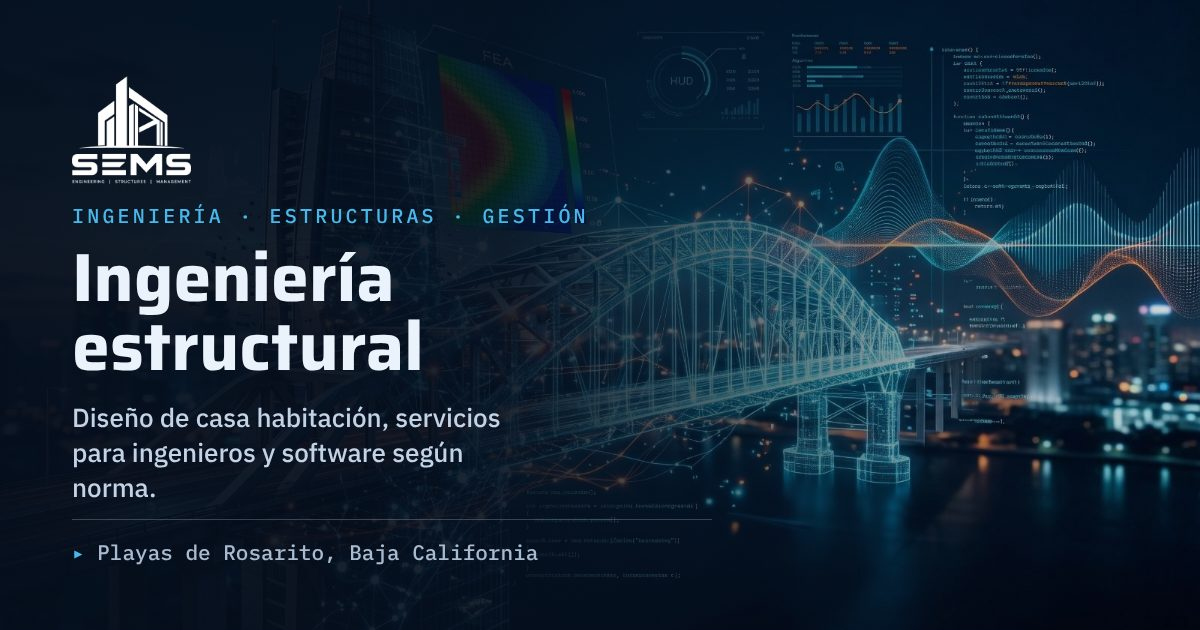
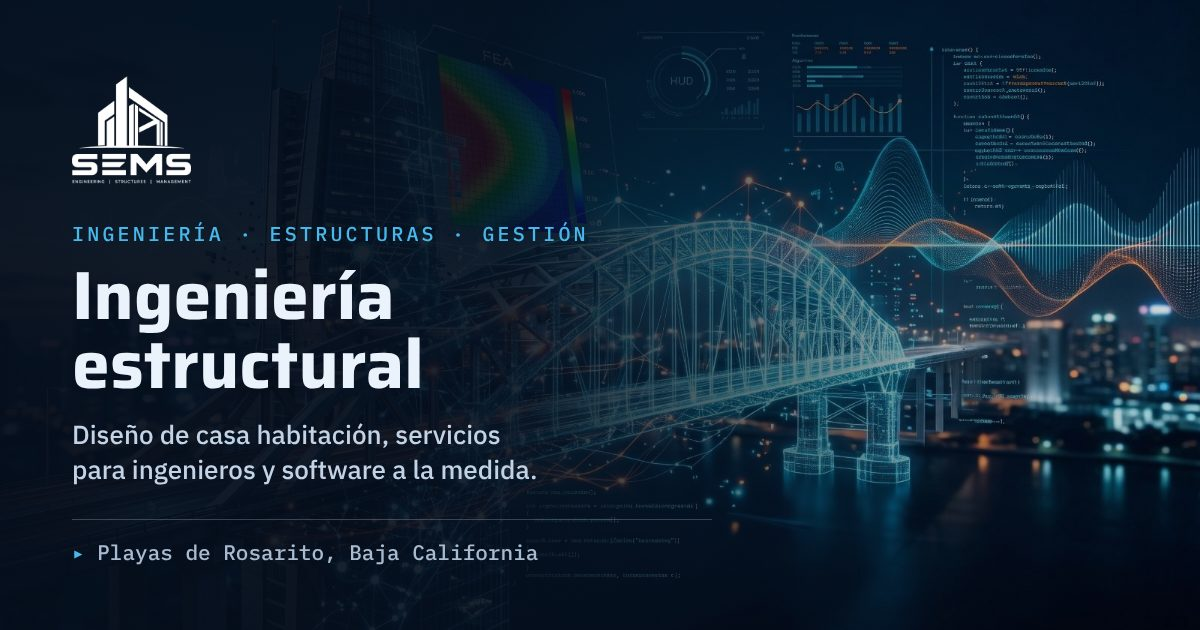
Presentar el software como complementos a la medida
Sección de software reescrita como desarrollo a la medida para ETABS,
Tekla Structures y AutoCAD, franja de programas que más usamos,
formulario y pregunta frecuente ajustados, e imagen para compartir.

Claude-Session: https://claude.ai/code/session_01U9cfAZwVzwVQ1EWmh6u5bm

Changed region(s): [[0.0617, 0.3317, 0.4625, 0.7841], [0.4008, 0.3317, 0.4933, 0.3921]]

diff --git a/index.html b/index.html
@@ -4,7 +4,7 @@
 <meta charset="utf-8">
 <meta name="viewport" content="width=device-width, initial-scale=1, viewport-fit=cover">
 <title>SEMS Ingeniería Estructural</title>
-<meta name="description" content="SEMS: diseño estructural de casa habitación, servicios para ingenieros con automatización por IA y software de diseño conforme a normas vigentes.">
+<meta name="description" content="SEMS: diseño estructural de casa habitación, servicios para ingenieros con automatización por IA y software a la medida para ETABS, Tekla Structures y AutoCAD.">
 <link rel="preconnect" href="https://fonts.googleapis.com">
 <link rel="preconnect" href="https://fonts.gstatic.com" crossorigin>
 <link rel="stylesheet" href="https://fonts.googleapis.com/css2?family=Saira:wght@500;600;700;800&family=IBM+Plex+Sans:wght@400;500;600&family=IBM+Plex+Mono:wght@400;500&display=swap">
@@ -15,14 +15,14 @@
 <meta property="og:locale" content="es_MX">
 <meta property="og:url" content="https://sems-ingenieria.github.io/">
 <meta property="og:title" content="SEMS · Ingeniería estructural">
-<meta property="og:description" content="Diseño estructural de casa habitación, servicios para ingenieros y software de diseño según norma. Playas de Rosarito, Baja California.">
+<meta property="og:description" content="Diseño estructural de casa habitación, servicios para ingenieros y software a la medida para ETABS, Tekla y AutoCAD. Playas de Rosarito, Baja California.">
 <meta property="og:image" content="https://sems-ingenieria.github.io/assets/og-sems.jpg">
 <meta property="og:image:width" content="1200">
 <meta property="og:image:height" content="630">
 <meta property="og:image:alt" content="Logotipo de SEMS sobre un puente con modelo estructural">
 <meta name="twitter:card" content="summary_large_image">
 <meta name="twitter:title" content="SEMS · Ingeniería estructural">
-<meta name="twitter:description" content="Diseño estructural de casa habitación, servicios para ingenieros y software de diseño según norma. Playas de Rosarito, Baja California.">
+<meta name="twitter:description" content="Diseño estructural de casa habitación, servicios para ingenieros y software a la medida para ETABS, Tekla y AutoCAD. Playas de Rosarito, Baja California.">
 <meta name="twitter:image" content="https://sems-ingenieria.github.io/assets/og-sems.jpg">
 <meta name="theme-color" content="#08162a">
 <style>
@@ -215,6 +215,12 @@ section.block { padding-block: var(--s-9); position: relative; }
 .fact h3 { font-size: 1.1rem; font-weight: 600; color: var(--ink); }
 .fact p { color: var(--muted); font-size: .95rem; }
 
+/* Programas que usamos */
+.tools-row { margin-top: var(--s-7); display: flex; flex-wrap: wrap; align-items: center; gap: var(--s-3) var(--s-5); }
+.tools { list-style: none; margin: 0; padding: 0; display: flex; flex-wrap: wrap; gap: var(--s-2) var(--s-3); }
+.tools li { font-family: var(--f-display); font-weight: 600; font-size: 1.05rem; color: var(--ink); padding: .35rem .9rem; border: 1px solid var(--line); border-radius: 999px; background: var(--surface); }
+.tools-row + .lead-eng { margin-top: var(--s-5); }
+
 /* Responsable técnico */
 .lead-eng { margin-top: var(--s-7); display: grid; grid-template-columns: auto minmax(0, 1fr); gap: var(--s-5); align-items: center; padding: var(--s-5) var(--s-6); background: var(--surface); border: 1px solid var(--line); border-radius: var(--radius); max-width: 760px; }
 .monogram { width: 76px; height: 76px; border-radius: 50%; border: 1.5px solid var(--steel); display: flex; align-items: center; justify-content: center; font-family: var(--f-display); font-weight: 700; font-size: 1.6rem; letter-spacing: .04em; color: var(--steel); background: var(--paper); }
@@ -362,9 +368,9 @@ section.block { padding-block: var(--s-9); position: relative; }
         <a class="path" href="#software">
           <svg class="path-icon" viewBox="0 0 48 48" fill="none" stroke="currentColor" stroke-width="2" stroke-linejoin="round"><rect x="6" y="9" width="36" height="26" rx="2"/><path d="M18 41h12M24 35v6"/><path d="M13 28l6-10 5 6 4-4 7 8"/></svg>
           <span class="who">Para ingenieros</span>
-          <h3>Software de diseño según norma</h3>
-          <p>Complementos y automatizaciones para ETABS, Tekla Structures y AutoCAD, alineados con la normativa vigente.</p>
-          <span class="go">Ver herramientas <svg viewBox="0 0 24 24" fill="none" stroke="currentColor" stroke-width="2"><path d="M5 12h14M13 6l6 6-6 6"/></svg></span>
+          <h3>Software a la medida</h3>
+          <p>Complementos para ETABS, Tekla Structures y AutoCAD hechos a la medida de tu despacho.</p>
+          <span class="go">Ver ejemplos <svg viewBox="0 0 24 24" fill="none" stroke="currentColor" stroke-width="2"><path d="M5 12h14M13 6l6 6-6 6"/></svg></span>
         </a>
       </div>
     </div>
@@ -444,52 +450,52 @@ section.block { padding-block: var(--s-9); position: relative; }
   <section class="block blueprint" id="software">
     <div class="wrap">
       <div class="sec-head">
-        <div class="eyebrow"><span class="axis">C</span><span class="label">Software especializado</span></div>
-        <h2>Herramientas para los programas que ya usas</h2>
-        <p>Complementos y automatizaciones para ETABS, Tekla Structures y AutoCAD que eliminan el trabajo repetitivo y te ayudan a diseñar conforme a la normativa vigente.</p>
+        <div class="eyebrow"><span class="axis">C</span><span class="label">Software a la medida</span></div>
+        <h2>Complementos a la medida para los programas que ya usas</h2>
+        <p>ETABS, Tekla Structures y AutoCAD son los programas que más usamos en SEMS. Desarrollamos complementos y rutinas a la medida de cada cliente para automatizar el trabajo repetitivo y apegarse a la normativa vigente.</p>
       </div>
       <div class="products">
         <article class="product">
           <div class="product-top">
             <span class="norm">ETABS</span>
-            <h3>Herramientas para ETABS</h3>
-            <p>Automatizan el modelado, el análisis y la revisión de estructuras en ETABS.</p>
+            <h3>Complementos para ETABS</h3>
+            <p>Conectamos con ETABS para automatizar lo que tu equipo hace a mano. Por ejemplo:</p>
           </div>
           <ul>
             <li>Combinaciones de carga y espectros según NTC</li>
             <li>Extracción de resultados a Excel y a la memoria de cálculo</li>
             <li>Revisión de derivas y elementos estructurales</li>
           </ul>
-          <div class="product-foot"><span class="price"><b>Precio bajo pedido</b></span><a class="btn btn-line" href="#contacto" data-perfil="software" data-producto="Herramientas para ETABS">Solicitar información</a></div>
+          <div class="product-foot"><span class="price"><b>Cotización a la medida</b></span><a class="btn btn-line" href="#contacto" data-perfil="software" data-producto="ETABS">Cotizar desarrollo</a></div>
         </article>
         <article class="product">
           <div class="product-top">
             <span class="norm">Tekla Structures</span>
-            <h3>Herramientas para Tekla Structures</h3>
-            <p>Agilizan el modelado y la documentación de estructuras de acero y concreto.</p>
+            <h3>Complementos para Tekla Structures</h3>
+            <p>Herramientas para modelar y documentar estructuras de acero y concreto más rápido. Por ejemplo:</p>
           </div>
           <ul>
             <li>Automatización de tareas de modelado</li>
             <li>Reportes y listas de materiales</li>
             <li>Intercambio de modelos con ETABS</li>
           </ul>
-          <div class="product-foot"><span class="price"><b>Precio bajo pedido</b></span><a class="btn btn-line" href="#contacto" data-perfil="software" data-producto="Herramientas para Tekla Structures">Solicitar información</a></div>
+          <div class="product-foot"><span class="price"><b>Cotización a la medida</b></span><a class="btn btn-line" href="#contacto" data-perfil="software" data-producto="Tekla Structures">Cotizar desarrollo</a></div>
         </article>
         <article class="product">
           <div class="product-top">
             <span class="norm">AutoCAD</span>
             <h3>Rutinas para AutoCAD</h3>
-            <p>Aceleran el dibujo y la revisión de planos estructurales.</p>
+            <p>Rutinas que aceleran el dibujo y la revisión de planos estructurales. Por ejemplo:</p>
           </div>
           <ul>
             <li>Dibujo de armados y detalles típicos</li>
             <li>Cuadros de columnas, trabes y losas</li>
             <li>Plantillas con el formato de tus planos</li>
           </ul>
-          <div class="product-foot"><span class="price"><b>Precio bajo pedido</b></span><a class="btn btn-line" href="#contacto" data-perfil="software" data-producto="Rutinas para AutoCAD">Solicitar información</a></div>
+          <div class="product-foot"><span class="price"><b>Cotización a la medida</b></span><a class="btn btn-line" href="#contacto" data-perfil="software" data-producto="AutoCAD">Cotizar desarrollo</a></div>
         </article>
       </div>
-      <p class="soft-note">¿Necesitas una herramienta a la medida de tu despacho? También desarrollamos software personalizado. <a href="#contacto" data-perfil="software">Cuéntanos qué necesitas</a>.</p>
+      <p class="soft-note">¿Usas otro programa o tienes una idea distinta? <a href="#contacto" data-perfil="software">Cuéntanos qué quieres automatizar</a> y lo evaluamos.</p>
       <p class="tm-note">ETABS, Tekla Structures y AutoCAD son marcas de sus respectivos propietarios.</p>
     </div>
   </section>
@@ -508,6 +514,10 @@ section.block { padding-block: var(--s-9); position: relative; }
         <div class="fact"><h3>Precio cerrado</h3><p>Sabes cuánto pagas desde el inicio, sin cargos sorpresa a mitad del proyecto.</p></div>
         <div class="fact"><h3>Diseño optimizado</h3><p>Un buen cálculo evita sobrediseñar y ahorra acero y concreto en obra.</p></div>
         <div class="fact"><h3>Trato directo</h3><p>Hablas con el ingeniero que calcula tu proyecto, no con un intermediario.</p></div>
+      </div>
+      <div class="tools-row">
+        <span class="label">Programas que más usamos</span>
+        <ul class="tools"><li>ETABS</li><li>Tekla Structures</li><li>AutoCAD</li></ul>
       </div>
       <div class="lead-eng">
         <span class="monogram" aria-hidden="true">HR</span>
@@ -533,7 +543,7 @@ section.block { padding-block: var(--s-9); position: relative; }
         <details><summary>¿Los planos sirven para tramitar la licencia de construcción?</summary><p>Sí. Entregamos planos estructurales y memoria de cálculo con el formato que piden las autoridades, y te apoyamos con la firma de responsable cuando aplica.</p></details>
         <details><summary>¿Cuánto tarda el proyecto estructural?</summary><p>Una casa habitación típica de uno o dos niveles se entrega en 1 a 3 semanas, según el tamaño y la información disponible.</p></details>
         <details><summary>¿La IA reemplaza el criterio del ingeniero?</summary><p>No. Las herramientas que implementamos automatizan tareas repetitivas y señalan posibles errores; las decisiones de diseño y la firma siguen siendo del ingeniero responsable.</p></details>
-        <details><summary>¿Cómo se licencian los programas?</summary><p>Ofrecemos licencias por usuario. Escríbenos y te enviamos precios, requisitos del equipo y una demostración.</p></details>
+        <details><summary>¿Cómo se cotiza un complemento a la medida?</summary><p>Nos cuentas qué tarea quieres automatizar y en qué programa. Revisamos cómo trabajas hoy, te proponemos el alcance y te damos un precio cerrado antes de empezar.</p></details>
       </div>
     </div>
   </section>
@@ -585,8 +595,8 @@ section.block { padding-block: var(--s-9); position: relative; }
           <select id="f-equipo" name="equipo"><option>Trabajo solo</option><option>2 a 5 ingenieros</option><option>6 a 20 ingenieros</option><option>Más de 20</option></select>
         </div>
         <div class="field" data-for="software" hidden>
-          <label for="f-producto">Herramienta de interés</label>
-          <select id="f-producto" name="producto"><option>Herramientas para ETABS</option><option>Herramientas para Tekla Structures</option><option>Rutinas para AutoCAD</option><option>Desarrollo a la medida</option></select>
+          <label for="f-producto">Programa</label>
+          <select id="f-producto" name="producto"><option>ETABS</option><option>Tekla Structures</option><option>AutoCAD</option><option>Otro programa</option></select>
         </div>
 
         <div class="field"><label for="f-msg" id="msg-label">Describe tu proyecto</label><textarea id="f-msg" name="mensaje" required></textarea><span class="err" hidden>Cuéntanos un poco más para poder ayudarte.</span></div>
@@ -620,7 +630,7 @@ section.block { padding-block: var(--s-9); position: relative; }
       </div>
       <div>
         <h4>Servicios</h4>
-        <ul><li><a href="#casa">Diseño de casa habitación</a></li><li><a href="#ingenieros">Servicios para ingenieros</a></li><li><a href="#software">Software de diseño</a></li></ul>
+        <ul><li><a href="#casa">Diseño de casa habitación</a></li><li><a href="#ingenieros">Servicios para ingenieros</a></li><li><a href="#software">Software a la medida</a></li></ul>
       </div>
       <div>
         <h4>Contacto</h4>
@@ -652,8 +662,8 @@ section.block { padding-block: var(--s-9); position: relative; }
   nav.addEventListener("click", function (e) { if (e.target.closest("a")) { nav.dataset.open = "false"; menuBtn.setAttribute("aria-expanded", "false"); } });
 
   // Pestañas del formulario
-  var labels = { casa: "Describe tu proyecto", ia: "¿Qué servicio necesitas o qué tareas quieres agilizar?", software: "¿Qué necesitas diseñar o calcular?" };
-  var asunto = { casa: "Cotización de diseño estructural", ia: "Servicios para ingenieros", software: "Información de software" };
+  var labels = { casa: "Describe tu proyecto", ia: "¿Qué servicio necesitas o qué tareas quieres agilizar?", software: "¿Qué te gustaría automatizar?" };
+  var asunto = { casa: "Cotización de diseño estructural", ia: "Servicios para ingenieros", software: "Cotización de software a la medida" };
   var current = "casa";
   function setTab(t) {
     current = t;
@@ -697,7 +707,7 @@ section.block { padding-block: var(--s-9); position: relative; }
     } else if (current === "ia") {
       lines.push("Tamaño del equipo: " + v("f-equipo"));
     } else {
-      lines.push("Herramienta: " + v("f-producto"));
+      lines.push("Programa: " + v("f-producto"));
     }
     lines.push("", v("f-msg"));
     message = lines.join("\n");
